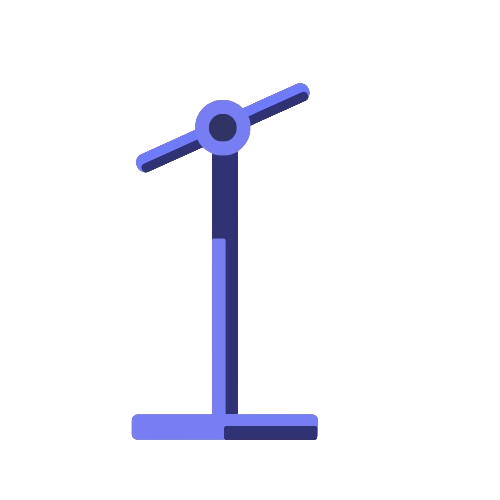
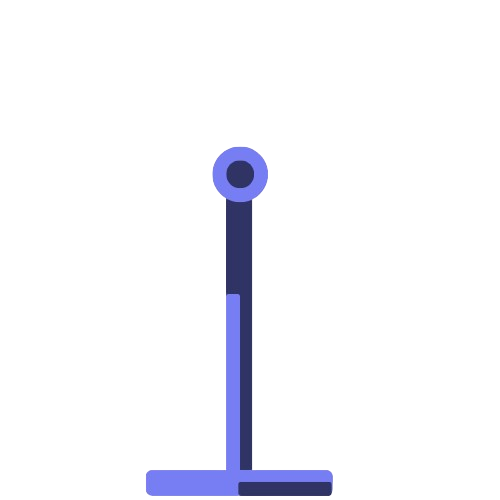
libra animation init

Changed region(s): [[0.24, 0.15, 0.69, 1.0]]

diff --git a/apps/harmony_app/lib/src/libra_widget/libra_widget.dart b/apps/harmony_app/lib/src/libra_widget/libra_widget.dart
@@ -14,58 +14,88 @@ class LibraWidget extends StatelessWidget {
     return InitBuilder<LibraBloc>(
       getter: _getBloc,
       builder: (context, bloc) {
-        return Column(
-          children: [
-            MaterialButton(
-              child: Text('dsadsa'),
-              onPressed: () {
-                if (bloc!.changeBalance.hasValue) {
-                  final value = bloc.changeBalance.value;
-                  bloc.changeBalance.add(-value);
-                  return;
-                }
-                bloc.changeBalance.add(20);
-              },
-            ),
-            AsyncBuilder<double>(
-              stream: bloc!.changeBalance.stream,
-              builder: (context, balanceValue) {
-                balanceValue ??= 0;
-                return Stack(
-                  children: [
-                    const _LibraWidget('assets/libra/main_wage.png'),
-                    const _LibraWidget('assets/libra/wage_bar.png'),
-                    AnimatedContainer(
-                      duration: const Duration(seconds: 1),
-                      transform: Matrix4.translationValues(0, balanceValue, 0),
-                      child: const _LibraWidget('assets/libra/left_wage.png'),
-                    ),
-                    AnimatedContainer(
-                      duration: const Duration(seconds: 1),
-                      transform: Matrix4.translationValues(0, -balanceValue, 0),
-                      child: const _LibraWidget('assets/libra/right_wage.png'),
-                    ),
-                  ],
-                );
-              },
-            ),
-          ],
+        return Center(
+          child: Column(
+            children: [
+              MaterialButton(
+                child: const Text('dsadsa'),
+                onPressed: () {
+                  if (bloc!.changeBalance.hasValue) {
+                    final value = bloc.changeBalance.value;
+                    bloc.changeBalance.add(-value);
+                    return;
+                  }
+                  bloc.changeBalance.add(20);
+                },
+              ),
+              AsyncBuilder<double>(
+                stream: bloc!.changeBalance.stream,
+                initial: 0,
+                builder: (context, balanceValue) {
+                  return Stack(
+                    children: [
+                      Padding(
+                        padding: const EdgeInsets.only(left: 34, top: 42),
+                        child: _AnimatedBuilder(
+                          transform: Matrix4.rotationZ(balanceValue! / 2),
+                          child: const _LibraWidget('assets/libra/wage_bar.png', width: 100),
+                        ),
+                      ),
+                      _AnimatedBuilder(
+                        transform: Matrix4.translationValues(0, -balanceValue, 0),
+                        child: const _LibraWidget('assets/libra/left_wage.png'),
+                      ),
+                      Padding(
+                        padding: const EdgeInsets.only(left: 34, top: 22),
+                        child: _AnimatedBuilder(
+                          transform: Matrix4.translationValues(0, balanceValue, 0),
+                          child: const _LibraWidget('assets/libra/right_wage.png'),
+                        ),
+                      ),
+                      const Padding(
+                        padding: EdgeInsets.only(left: 12),
+                        child: _LibraWidget('assets/libra/main_wage.png'),
+                      ),
+                    ],
+                  );
+                },
+              ),
+            ],
+          ),
         );
       },
     );
   }
 }
 
+class _AnimatedBuilder extends StatelessWidget {
+  const _AnimatedBuilder({required this.child, required this.transform});
+
+  final Widget child;
+  final Matrix4 transform;
+
+  @override
+  Widget build(BuildContext context) {
+    return AnimatedContainer(
+      duration: const Duration(seconds: 1),
+      transform: transform,
+      transformAlignment: Alignment.center,
+      child: child,
+    );
+  }
+}
+
 class _LibraWidget extends StatelessWidget {
-  const _LibraWidget(this.path);
+  const _LibraWidget(this.path, {this.width});
 
   final String path;
+  final double? width;
 
   @override
   Widget build(BuildContext context) {
     return Image.asset(
       path,
-      width: 150,
+      width: width ?? 150,
     );
   }
 }
@@ -75,4 +105,38 @@ LibraBloc _getBloc() {
     return _getIt.get<LibraBloc>();
   }
   return _getIt.registerSingleton<LibraBloc>(LibraBloc());
+}
+
+class SpinningLine extends StatefulWidget {
+  const SpinningLine({super.key});
+
+  @override
+  _SpinningLineState createState() => _SpinningLineState();
+}
+
+class _SpinningLineState extends State<SpinningLine> with SingleTickerProviderStateMixin {
+  late AnimationController _controller;
+
+  @override
+  void initState() {
+    super.initState();
+    _controller = AnimationController(
+      vsync: this,
+      duration: Duration(seconds: 1),
+    )..repeat();
+  }
+
+  @override
+  Widget build(BuildContext context) {
+    return RotationTransition(
+      turns: _controller,
+      child: const _LibraWidget('assets/libra/wage_bar.png'),
+    );
+  }
+
+  @override
+  void dispose() {
+    _controller.dispose();
+    super.dispose();
+  }
 }

diff --git a/apps/harmony_app/lib/src/libra_widget/animated_builder_test.dart b/apps/harmony_app/lib/src/libra_widget/animated_builder_test.dart
@@ -14,7 +14,7 @@ class _AnimatedBuilderExampleState extends State<AnimatedBuilderExample> with Ti
   late final AnimationController _controller = AnimationController(
     duration: const Duration(seconds: 1),
     vsync: this,
-  );
+  )..repeat();
 
   @override
   void dispose() {
@@ -28,10 +28,14 @@ class _AnimatedBuilderExampleState extends State<AnimatedBuilderExample> with Ti
       animation: _controller,
       child: widget.child,
       builder: (BuildContext context, Widget? child) {
-        return Transform.translate(
-          offset: Offset(0, widget.goUp ? (-25 * _controller.value) : (25 * _controller.value)),
+        return Transform.rotate(
+          angle: 120,
           child: child,
         );
+        // return Transform.translate(
+        //   offset: Offset(0, widget.goUp ? (-25 * _controller.value) : (25 * _controller.value)),
+        //   child: child,
+        // );
       },
     );
   }
